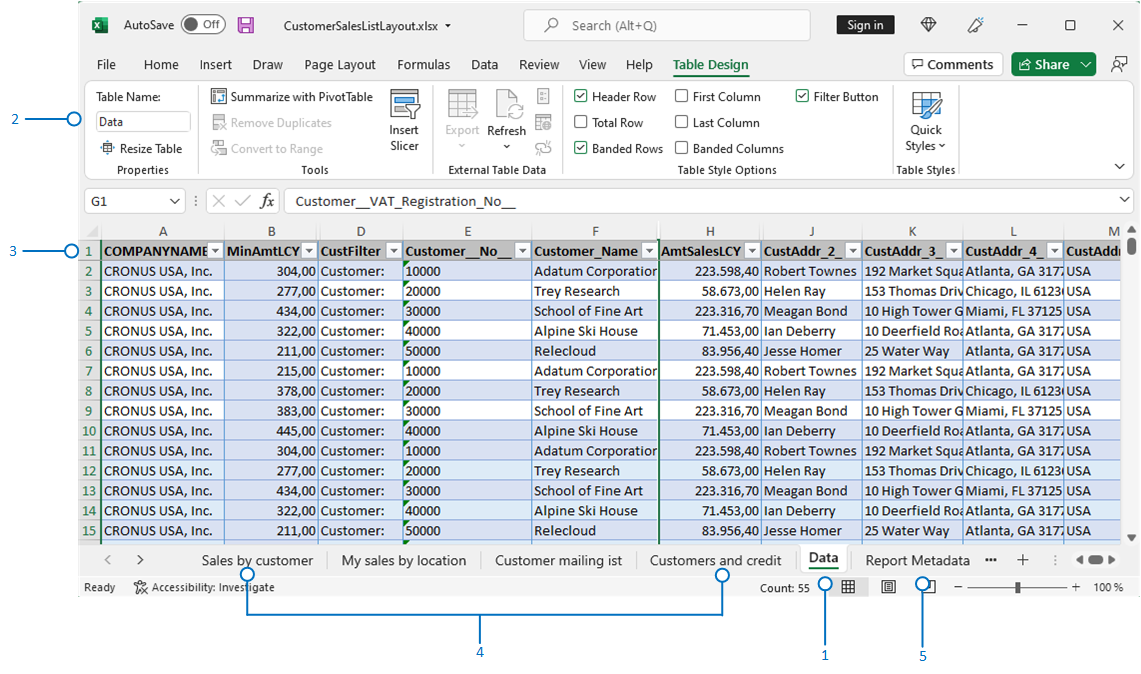
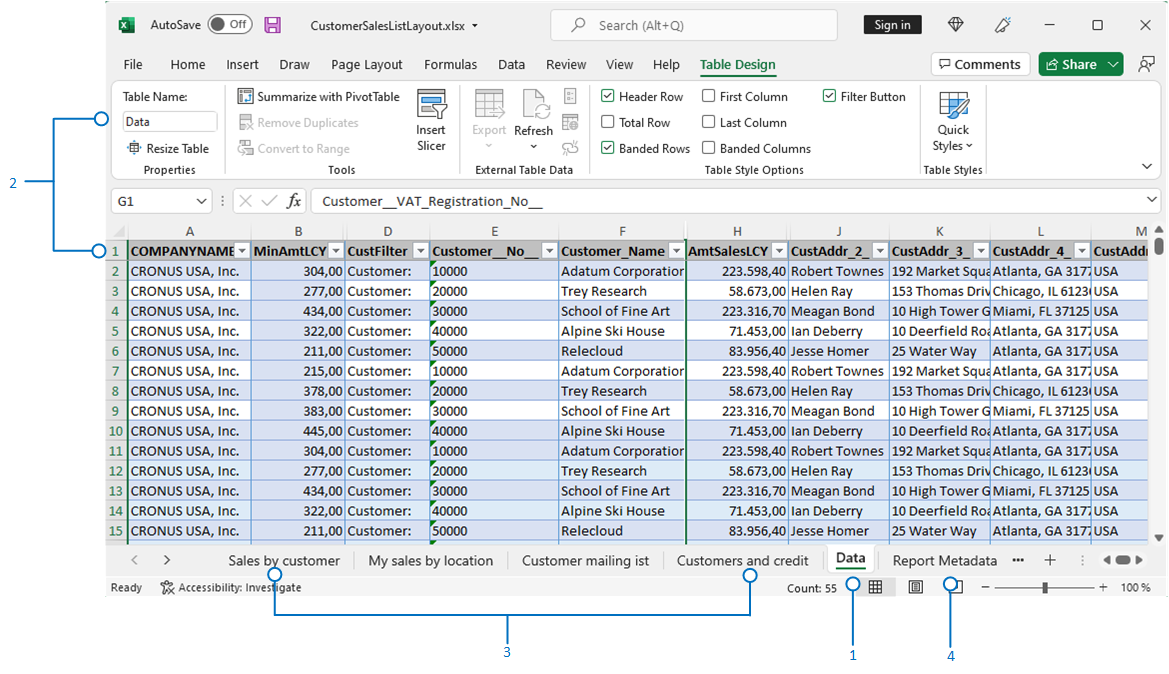
updates

diff --git a/business-central/ui-excel-report-layouts.md b/business-central/ui-excel-report-layouts.md
@@ -27,10 +27,10 @@ Here are some more benefits of using Excel layouts:
 - Create interactive reports using visualizations like slicers
 - View raw data from the report dataset to help understand how the report works and where the data on visuals comes from
 - Use built-in Office features to do post-processing on rendered reports, like:
-  - [protecting the worksheets](https://support.microsoft.com/en-us/office/protect-a-worksheet-3179efdb-1285-4d49-a9c3-f4ca36276de6)
-  - [applying sensitivity labels](https://support.microsoft.com/en-us/office/apply-sensitivity-labels-to-your-files-and-email-in-office-2f96e7cd-d5a4-403b-8bd7-4cc636bae0f9)
-  - [Add comments and notes](https://support.microsoft.com/en-us/office/insert-comments-and-notes-in-excel-65f504d8-160b-4a05-ac30-46fbd5227a52)
-  - [forecasting and analysis](https://support.microsoft.com/en-us/office/introduction-to-what-if-analysis-22bffa5f-e891-4acc-bf7a-e4645c446fb4) 
+  - [Protecting the worksheets](https://support.microsoft.com/en-us/office/protect-a-worksheet-3179efdb-1285-4d49-a9c3-f4ca36276de6)
+  - [Applying sensitivity labels](https://support.microsoft.com/en-us/office/apply-sensitivity-labels-to-your-files-and-email-in-office-2f96e7cd-d5a4-403b-8bd7-4cc636bae0f9)
+  - [Adding comments and notes](https://support.microsoft.com/en-us/office/insert-comments-and-notes-in-excel-65f504d8-160b-4a05-ac30-46fbd5227a52)
+  - [Forecasting and analysis](https://support.microsoft.com/en-us/office/introduction-to-what-if-analysis-22bffa5f-e891-4acc-bf7a-e4645c446fb4) 
 - Use installed add-ins and app integrations, like Power Automate flows or OneDrive.
 
 ## Get started
@@ -112,25 +112,23 @@ Once you have the Excel layout file, the next task is to add it as a new layout 
 
 There are few things you should know or consider when you start creating or making changes to Excel layouts. Every Excel layout must include a couple: a **Data** sheet and its  **Data** table. These elements form the basis of the layout by defining the business data from Business Central that you can work with. You can think of the **Data** sheet as a kind contract between the layout in the business data. You'll use this data as the source of calculations and visualizations that you want to present on other sheets.
 
-There are also specific requirements on the  **Data** sheet and **Data** table. If the requirements aren't met, you'll have problems using the layout. The following diagram and table outline the elements of an Excel layout and some of the requirements.
+There are some specific requirements to the structure of the Excel workbook. If the requirements aren't met, you'll have problems using the layout. The following diagram and table outline the elements of an Excel layout and the requirements.
 
-![Shows the different elements of an Excel layout.](media/excel-layout-callouts-2.png)
+[![Shows the different elements of an Excel layout.](media/excel-layout-callouts-2.png)](media/excel-layout-callouts-2.png#lightbox)
 
 |No.|Element|Description|Mandatory|
 |---|-------|----|---|
 |1|**Data** sheet|<ul><li>Must have the name **Data**</li><li>Can only include one table, and the table must be named **Data**</li></ul>|![Is mandatory](media/check.png) | 
-|2, 3|**Data** table|<ul><li>Must have the name **Data**</li><li>Must have at least one column.</li><li>Can only include columns that are in the report dataset.</li><li>Must start in the first cell **A1** of the **Data** sheet</li></ul>|![Is mandatory](media/check.png)|
+|2|**Data** table|<ul><li>Must have the name **Data**</li><li>Must have at least one column.</li><li>Can only include columns that are in the report dataset.</li><li>Must start in the first cell **A1** of the **Data** sheet</li></ul>|![Is mandatory](media/check.png)|
+|3|More data sheets|Used to present data.||
 |4|**Report Metadata** sheet|<ul><li>Automatically included if the layout was created by exporting another report as Excel</li><li>Contains general information about the report</li></ul>|
-|5|More data sheets|Used to present data.||
 
 To summarize what you can and can't do on the **Data** sheet:
 
 - Don't change the name of **Data** sheet, **Data** table, or columns.
 - You can delete or hide columns.
 - Don't add any columns unless they're included in the report dataset.
-- You can place the sheets in any order.
-
-
+- You can place the sheets in any order. For example, the **Data** sheet can be first or last.
 
 ## See Related Training at [Microsoft Learn](/learn/modules/change-documents-dynamics-365-business-central/index)
 

diff --git a/business-central/ui-manage-report-layouts.md b/business-central/ui-manage-report-layouts.md
@@ -50,7 +50,7 @@ There are four types of layouts that you can use on reports: Word, RDLC, Excel, 
 
   ![Shows the an example of an Excel layout.](media/excel-layout-2.png)
 
-  For more information, see [Work with Excel Layouts](ui-excel-layouts.md).
+  For more information, see [Work with Excel Layouts](ui-excel-report-layouts.md).
 
 * RDLC
 
